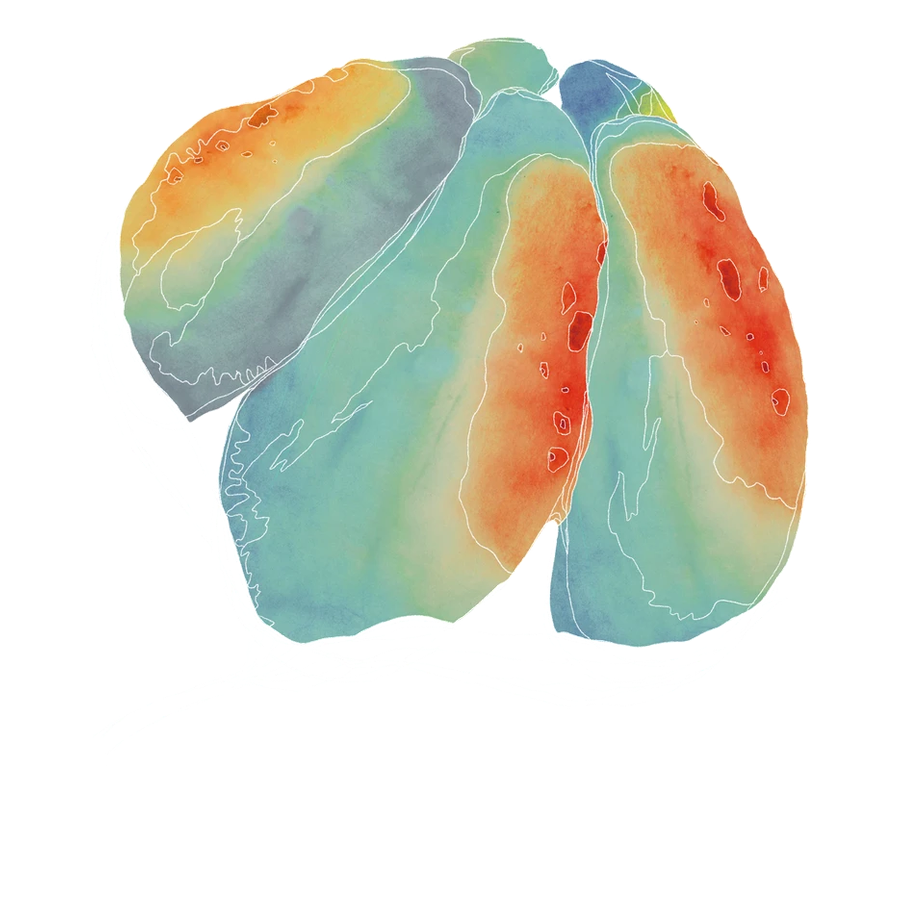
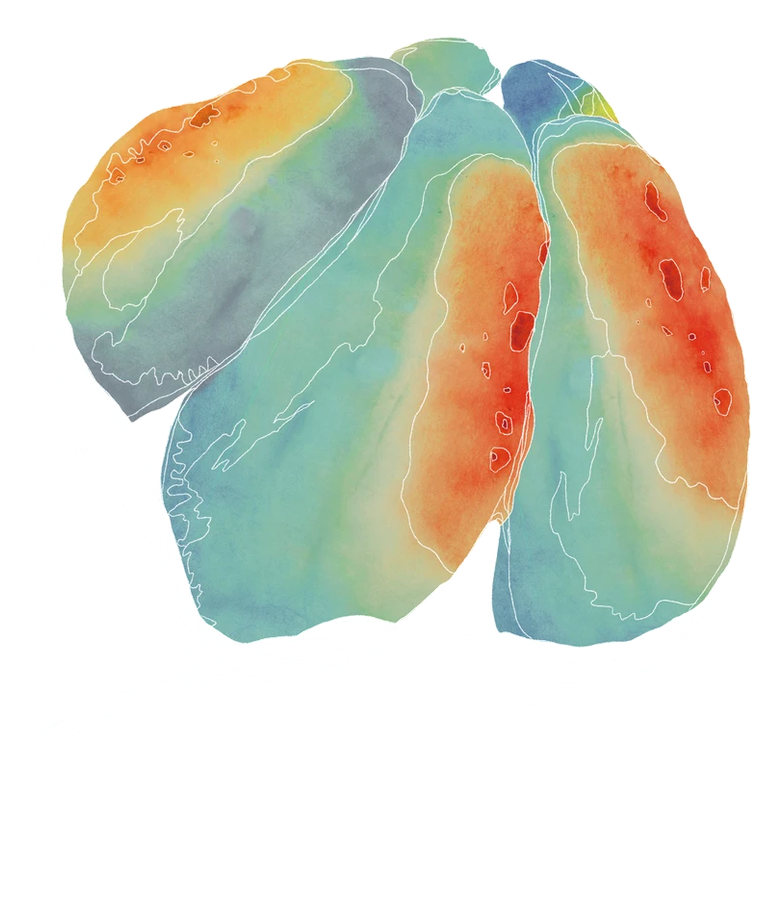
Balance seminar artwork spacing

diff --git a/index.html b/index.html
@@ -20,7 +20,7 @@
 <link href="https://fonts.googleapis.com/css2?family=Work+Sans:ital,wght@0,400;0,600;0,700;1,600&family=Zen+Kaku+Gothic+New:wght@400;500;700&display=swap" rel="stylesheet">
 <link rel="stylesheet" href="https://cdnjs.cloudflare.com/ajax/libs/font-awesome/6.7.2/css/all.min.css" crossorigin="anonymous" referrerpolicy="no-referrer">
 <!-- ?v= はキャッシュよけ（CSS・JS を変えたら上げる。works/ のページは studio-embed/local/page.template.html） -->
-<link rel="stylesheet" href="assets/style.css?v=20261115k">
+<link rel="stylesheet" href="assets/style.css?v=20261118a">
 <!-- KV の文字（キャッチ・大学名・タイトル・MAU ロゴ）を最初の描画から隠しておく。
      表示は kv.js が KV のアニメーションに合わせて行う。kv.js が動かなかったときのため 10 秒で必ず出す -->
 <script>
@@ -1845,7 +1845,7 @@
 <script src="assets/script.js?v=202611081240" defer></script>
 <script src="assets/fruit-features.js?v=20261109" defer></script>
 <script src="assets/fruit-intro.js?v=20261111d" defer></script>
-<script src="assets/fruit-linked.js?v=20261118a" defer></script>
+<script src="assets/fruit-linked.js?v=20261118b" defer></script>
   <dialog class="motion-intro" id="motion-intro" aria-label="オープニング動画">
     <span class="motion-intro__focus" tabindex="-1" aria-label="オープニング動画"></span>
     <button class="motion-intro__close" type="button" aria-label="動画を閉じる">×</button>

diff --git a/assets/fruit-linked.js b/assets/fruit-linked.js
@@ -34,10 +34,7 @@
   const intro = (slug) => document.querySelector(`.fruit-intro__fruit[data-fruit="${CSS.escape(slug)}"]`)?.closest('article');
   const show = (slug) => {
     const item = intro(slug); if (!item) return;
-    image.src = `assets/img/seminars/normalized/seminar-${slug}.webp?v=20261118`;
-    const reference = [...board.querySelectorAll('a')].find(a => getSlug(a) === slug && a.querySelector('img'));
-    const referenceWidth = reference?.querySelector('img')?.offsetWidth;
-    image.style.width = referenceWidth ? `${referenceWidth * 1.6}px` : '';
+    image.src = `assets/img/seminars/normalized/seminar-${slug}.webp?v=20261118b`;
     const sourceTitle = item.querySelector('h3');
     number.textContent = sourceTitle.querySelector('.fruit-number')?.textContent || '';
     title.textContent = Array.from(sourceTitle.childNodes).filter(node => node.nodeType === Node.TEXT_NODE).map(node => node.textContent).join('').trim();

diff --git a/assets/style.css b/assets/style.css
@@ -1627,7 +1627,7 @@ body.home .kv-info__meta > :not(.kv-info__logo) { display: block; }
 /* 番号順の無造作配置には、絵と名前が重ならない高さを確保する。 */
 html[data-fruit-layout="scatter"] body.home .seminars-b { aspect-ratio: 1000 / 1250; }
 @media (max-width: 690px) { html[data-fruit-layout="scatter"] body.home .seminars-b { aspect-ratio: 1000 / 2300; } }
-@media (min-width: 1001px) { .fruit-preview img { flex: 0 1 auto; min-height: 0; max-width: 100%; max-height: none; } }
+@media (min-width: 1001px) { .fruit-preview img { flex: 0 1 auto; width: auto; height: auto; min-height: 0; max-width: min(100%, 260px); max-height: min(29vh, 260px); } }
 
 /* 展示場所・配布物・ゼミ紹介の順に、独立した余白を取る。 */
 body.home #exhibition-places { padding-block: 0 var(--home-block-gap); }
